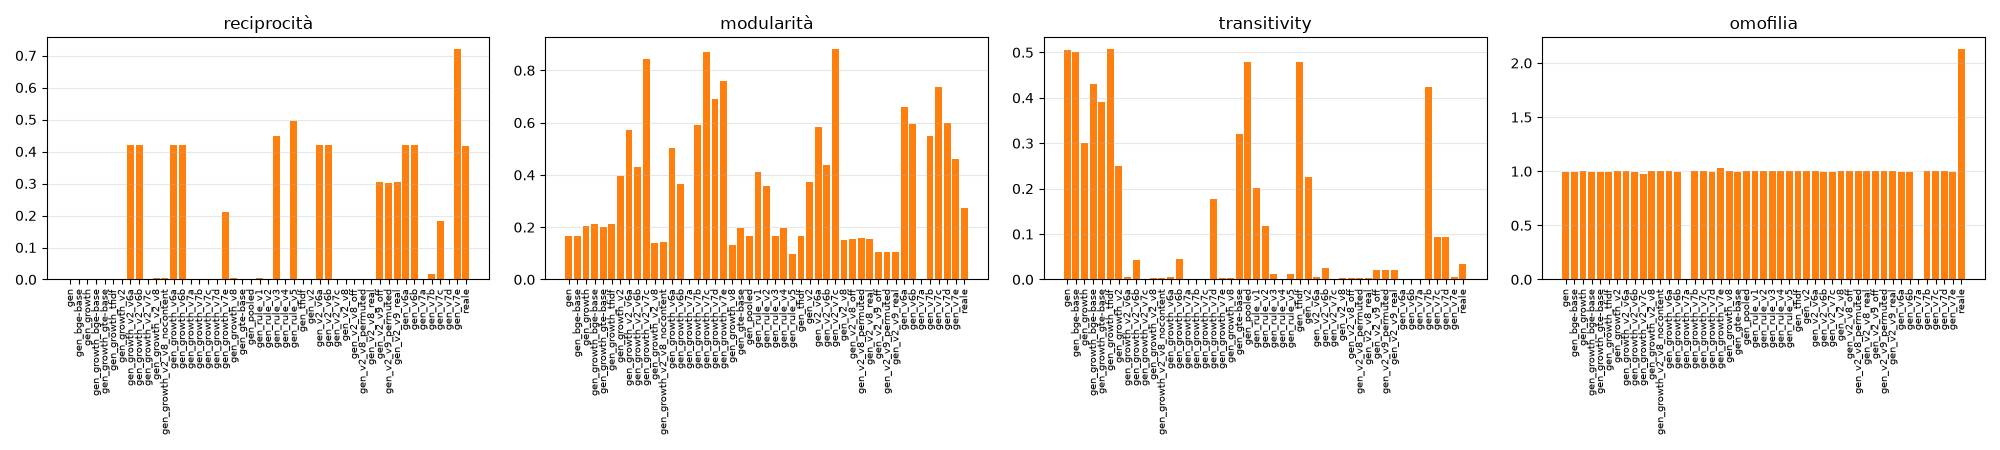
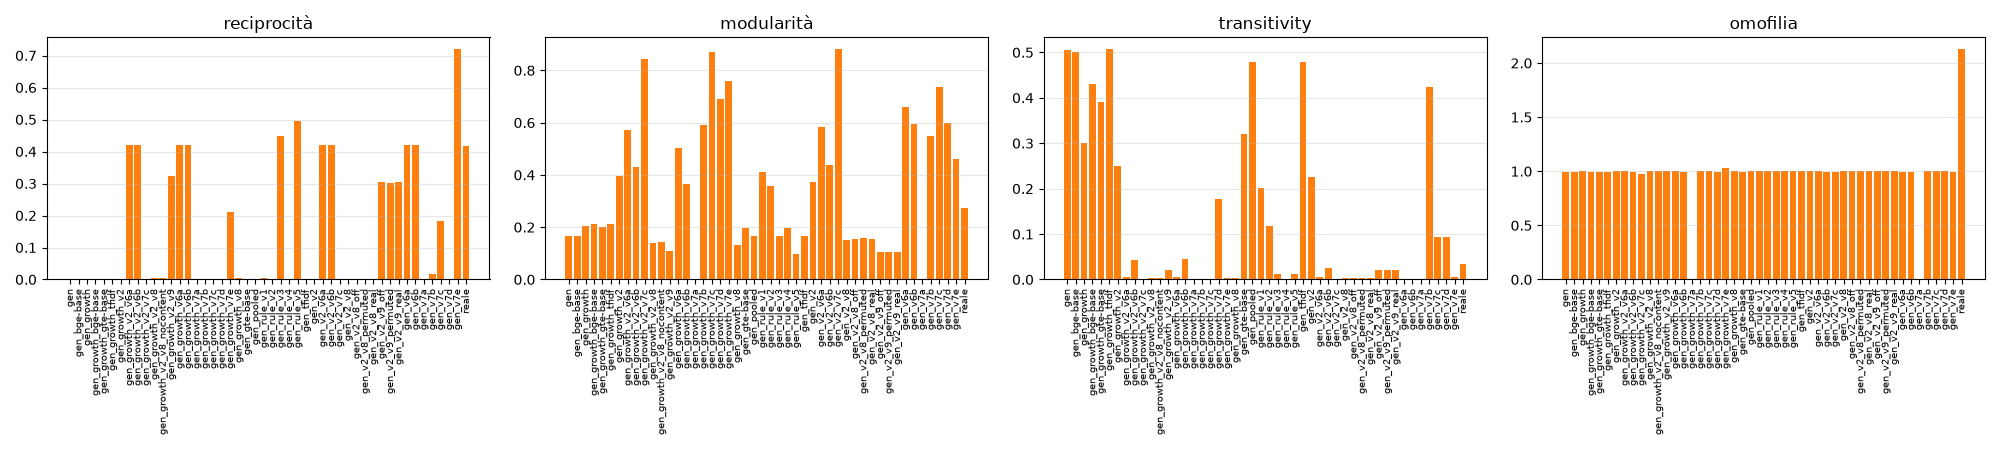
Arrival-event model run on the progressive partition; supervisor message

diff --git a/src/variant_summary.py b/src/variant_summary.py
@@ -49,6 +49,7 @@ VARIANTS = [
     ('_v9_real', 'v9 evento di arrivo (testo autentico)'),
     ('_v9_permuted', 'v9 evento di arrivo (testo permutato)'),
     ('_v9_off', 'v9 evento di arrivo (senza testo)'),
+    ('_v9', 'v9 evento di arrivo (ingresso progressivo)'),
     ('_v8', 'v8 modello struttura (campionamento)'),
 ]
 

diff --git a/docs/messaggio.md b/docs/messaggio.md
@@ -1,0 +1,74 @@
+# messaggio.md — aggiornamento per il dottorando
+
+*Testo da inviare a Francesco. Il corpo del messaggio comincia da "Ciao Francesco", dopo il separatore: quello che segue è scritto per essere incollato così com'è (niente titoli o grassetti da interpretare).*
+
+---
+
+Ciao Francesco,
+
+ti scrivo per aggiornarti sul progetto di esame, che ormai ha un quadro completo. Ti racconto come sono arrivato ai risultati e cosa ho prodotto; in fondo ti chiedo un paio di cose. Leggi pure con calma.
+
+Il protocollo di valutazione, in breve
+
+Nel dataset reale ogni arco nuovo coinvolge almeno un utente che entra, quindi la restrizione standard del protocollo di valutazione lascia zero archi di test. Valuto perciò sull'intera transizione, con negativi appaiati (stesso primo utente, destinazione con storia di arrivo e grado simili) e, per trasparenza, anche con negativi casuali: con questi ultimi l'AUC sta intorno a 0,99, con gli appaiati intorno a 0,5, ed è la seconda la colonna su cui prendo le decisioni.
+
+Come ho ripartito il sintetico in snapshot
+
+Il dataset sintetico non ha date, quindi l'ho ripartito in 9 passi, quanti sono gli snapshot del reale. Il criterio è misurato sul reale: la curva di arrivo (quanti utenti entrano a ogni passo) e la forma dell'attività (quando e quanto scrive ciascuno, con le raffiche collocate a caso dentro la vita dell'utente). Non uso la curva aggregata dei post per snapshot del reale, perché gli snapshot hanno durata molto diversa — da un anno a pochi giorni — e quei conteggi misurano attività per lunghezza della finestra. Resta mia una sola assunzione dichiarata: che gli id dei post riflettano l'ordine di generazione, e quindi l'ordine di arrivo degli utenti.
+
+Ho provato due ripartizioni: una in cui gli utenti entrano progressivamente, con la curva di arrivo che decide quando ciascuno compare (come nel reale), e una in cui tutti gli utenti sono già presenti dal primo passo. I confronti finali, e i numeri che seguono, sono sulla seconda; l'ingresso progressivo resta come controllo di sensibilità: sposta il volume di circa il 5% e non cambia nessuna metrica strutturale.
+
+Come ho generato la rete
+
+Il meccanismo di formazione degli archi non lo decido io: lo fitto sulle transizioni del reale, con una regressione logistica su variabili standardizzate, e poi genero passo per passo campionando, ricalcolando le variabili sullo stato della rete appena generata. Nessun conteggio e nessuna soglia imposti: volume, gradi e hub emergono dal campionamento. L'unica informazione che entra come feature è il contenuto dei post; le label di profilo del sintetico restano fuori dall'input e servono soltanto in valutazione.
+
+Il contenuto e il modello temporale
+
+Per il contenuto ho confrontato sei encoder sul reale a parità di protocollo (tf-idf+SVD, all-MiniLM-L6-v2, BGE-small, BGE-base, GTE-small, GTE-base) e vince all-MiniLM-L6-v2. Poi un miglioramento misurato: codifico ogni post singolarmente e faccio la media dei vettori per utente, perché concatenando i post di un utente in un'unica stringa l'encoder tagliava al proprio limite di token e per gli utenti più attivi sopravviveva il 28% del testo — proprio gli hub. Con la codifica per post l'AUC di protocollo passa da 0,534 a 0,549.
+
+Il modello temporale è tNodeEmbed inizializzato con le rappresentazioni del contenuto: una rappresentazione per snapshot, un allineamento di Procrustes ortogonale a catena fra snapshot consecutivi, una LSTM sulla sequenza dei 9 passi e una testa di coppia su [h_u, h_v, h_u * h_v]. L'addestramento usa le transizioni di training del reale, con early stopping sulla validation e test mai toccato.
+
+Le versioni precedenti, e quella finale
+
+Prima di arrivare a questa versione ho provato altre famiglie di generazione — regole con il conteggio deciso a mano, statistiche calibrate sul reale, inferenza con una soglia sul punteggio del modello — e le tengo come confronto, ma qui ti racconto solo la versione finale, che è quella che funziona.
+
+La versione finale cambia l'unità del modello: non è più la coppia di utenti, ma l'evento di arrivo, cioè l'utente che entra. Nasce da una misura sul reale: un utente nuovo non porta con sé un arco, ne porta un gruppo — in media da 35 a 111 secondo il periodo, con punte di 1.202, cioè lo stesso ordine del grado massimo reale — e circa il 40% di quegli archi è ricambiato dentro lo stesso arrivo. È l'arrivo a creare l'hub, non la somma di decisioni indipendenti. Il modello stima sul reale quante connessioni porta un arrivo, dove vanno i bersagli e quanto sono ricambiate, e poi genera arrivo per arrivo.
+
+I numeri
+
+Valori dell'ultimo snapshot:
+
+- reale: 824.045 archi, grado uscente medio 32,05, grado massimo 1.290, reciprocità 0,418, modularità 0,275, transitività 0,034, diametro 6;
+- versione finale: 280.298 archi, grado medio 28,30, grado massimo 324, reciprocità 0,304, transitività 0,0209, clustering 0,043, diametro 6.
+
+Quindi reciprocità, scala dei gradi, coda e triangoli stanno nell'ordine di grandezza giusto. La rete resta un po' più "piatta" del reale, e gli scarti sono tutti nella stessa direzione con una causa unica: la preferenza per i nodi più connessi è sottostimata nel passaggio da 25.714 utenti a 10.000 (l'estremo già presente negli archi nuovi ha grado medio 169, contro 437 nel reale). È il trasferimento di scala, non la forma del modello, e credo sia la direzione in cui il lavoro potrebbe continuare.
+
+Il controllo sul contenuto: tre reti
+
+Per capire quanto conti davvero il testo, ho generato tre reti che differiscono soltanto per il canale testuale sul lato sintetico: testo autentico, testo permutato fra utenti (gli stessi profili riassegnati ad altre persone, così le statistiche del testo restano identiche) e nessun testo. Le tre reti sono indistinguibili nelle proprietà relazionali: reciprocità 0,3035 / 0,3021 / 0,3037, e il volume oscilla senza un ordine preciso. Anche nei pesi fittati il contenuto pesa poco: +0,05 contro +1,21 della variabile "la controparte è nuova" e +1,02 del grado.
+
+L'omofilia del reale, scomposta
+
+Il numero che sembrava contraddire questa lettura è l'omofilia del contenuto della rete reale, 2,13: l'ho scomposta e risulta in gran parte struttura, non scelta di somiglianza. Contro coppie estratte a caso è 2,133, ma contro non-archi appaiati per grado scende a 1,511, e a 1,290 se il grado è uguale entro il 10%. Il motivo è che nel reale vengono collegati gli utenti più connessi e più attivi, e i profili lessicali di chi scrive molto si somigliano da soli: gli estremi degli archi hanno grado medio 403,6 contro 61,7 degli utenti con testo. Resta un residuo piccolo (AUC intorno a 0,58), che vive nei profili TF-IDF cumulativi, cioè in un modo di misurare il contenuto diverso da quello che il generatore usa.
+
+Cosa il testo sa fare
+
+Dall'altro lato, però, il testo conosce l'utente. Prendendo le label del dataset sintetico così come sono — political_leaning, profession, age_interval — e addestrando un classificatore sul solo contenuto dei post, l'AUC è 0,827 su political_leaning, 0,867 su profession e 0,690 su age_interval; aggiungendo la rete (content+graph) non cambia nulla, e gli embedding temporali (tnodeembed) vanno molto peggio, 0,622 / 0,543 / 0,564. La lettura che ne traggo è che chi è un utente sta nel testo, con chi si collega sta nella struttura — e credo sia il risultato più solido del lavoro, perché viene da un controllo e non da una correlazione.
+
+Cose verificate che non funzionano
+
+- Il contenuto non porta il legame: è il controllo delle tre reti qui sopra, e il peso fittato del contenuto resta un ordine di grandezza sotto quello della struttura.
+- Il fine-tuning dell'encoder peggiora anche la validation (0,549 contro 0,571 del base) oltre alle due finestre di test: la supervisione è troppo debole e l'encoder si adatta al periodo che vede.
+- Rendere addestrabili le feature dei nodi peggiora (0,512 contro 0,534).
+- L'idea del "post come arco" — il testo di un singolo post come relazione fra due utenti — è chiusa: nel file degli archi gli id sono utenti e non post (verificato su tutte e nove le cartelle: due colonne, e nessun campo coincide con un id di post), e provata come regola il testo del singolo post non separa le coppie collegate da quelle appaiate (AUC intorno a 0,516, cioè caso). La parte strutturale dell'idea, la co-interazione sullo stesso post, non è verificabile con questi dati: servirebbe sapere quale post è agganciato a ciascun arco.
+
+Cosa ho prodotto, e i prossimi passi
+
+Ho pronta la relazione con i grafici e un articolo in formato pubblicazione, in italiano e in inglese con i PDF: struttura completa, confronto reale contro la versione finale, il controllo sul contenuto, la scomposizione dell'omofilia e i risultati negativi. I riferimenti li ho verificati uno per uno. Se ti serve te lo giro, anche per farlo leggere al professore.
+
+Volendo ci possiamo confrontare nei prossimi giorni, anche in chiamata se preferisci, che forse è più veloce. Se ti serve un file, uno script o un grafico specifico, dimmi quale e te lo preparo.
+
+E se ti viene in mente qualche altra idea su cui vale la pena lavorare, sono qui: per esempio si potrebbe estendere la previsione del profilo alle altre label interessanti del dataset sintetico, per vedere quali altre informazioni il testo cattura.
+
+Grazie, e a presto.
+Angelantonio

diff --git a/docs/nota_dottorando.md b/docs/nota_dottorando.md
@@ -31,9 +31,9 @@
 
 | modalità | archi | densità | reciprocità | grado max | modularità | transitivity | omofilia |
 |---|---|---|---|---|---|---|---|
-| A — testo autentico | 128.859 | 0,001289 | 0,0029 | 100 | 0,154 | 0,00269 | 1,0017 |
-| B — testo permutato fra utenti | 123.310 | 0,001233 | 0,0030 | 111 | 0,158 | 0,00248 | 1,0000 |
-| C — senza testo | 124.154 | 0,001242 | 0,0029 | 98 | 0,158 | 0,00259 | 0,9995 |
+| A — testo autentico | 128.831 | 0,001288 | 0,0031 | 107 | 0,154 | 0,00269 | 1,0009 |
+| B — testo permutato fra utenti | 123.294 | 0,001233 | 0,0030 | 96 | 0,159 | 0,00253 | 0,9998 |
+| C — senza testo | 124.560 | 0,001246 | 0,0029 | 106 | 0,156 | 0,00262 | 1,0004 |
 
 - **La densità coincide con quella reale** (0,00129 contro 0,00125) e il grado medio è a 2–2,5 volte dal reale: con la versione precedente, basata su una soglia, si arrivava a 3,6–5,8 di grado medio e a una densità 3-4 volte più bassa. **Nessuno di questi valori è imposto**: emergono dal campionamento.
 - **V6 (calibrata)** centra volume e reciprocità **per costruzione** (0,420 esatta): è utile come confronto, ma è la differenza fra *imporre* e *imparare*.
@@ -51,4 +51,4 @@
 
 ## 5. In una riga
 
-La pipeline riproduce **la struttura di base** (densità e gradi) **imparando** il meccanismo dal reale e senza imporre statistiche; con l'unità di V9 — l'evento di arrivo — riproduce nell'ordine giusto anche **reciprocità, triangoli e coda dei gradi** (0,303 · 0,0203 · 324 contro 0,418 · 0,034 · 1.290 del reale), restando un po' più "piatta" del reale, con un'unica causa: la preferenza per i nodi più connessi è sottostimata nel trasferimento da 25.714 utenti reali a 10.000 sintetici. Sul contenuto il progetto ha due risultati controllati: il canale testuale **non sposta la rete** (A/B/C indistinguibili) e l'omofilia **2,13** del reale è **in gran parte posizione nella rete**, non scelta di somiglianza.
+La pipeline riproduce **la struttura di base** (densità e gradi) **imparando** il meccanismo dal reale e senza imporre statistiche; con l'unità di V9 — l'evento di arrivo — riproduce nell'ordine giusto anche **reciprocità, triangoli e coda dei gradi** (0,304 · 0,0209 · 324 contro 0,418 · 0,034 · 1.290 del reale), restando un po' più "piatta" del reale, con un'unica causa: la preferenza per i nodi più connessi è sottostimata nel trasferimento da 25.714 utenti reali a 10.000 sintetici. Sul contenuto il progetto ha due risultati controllati: il canale testuale **non sposta la rete** (A/B/C indistinguibili) e l'omofilia **2,13** del reale è **in gran parte posizione nella rete**, non scelta di somiglianza.
